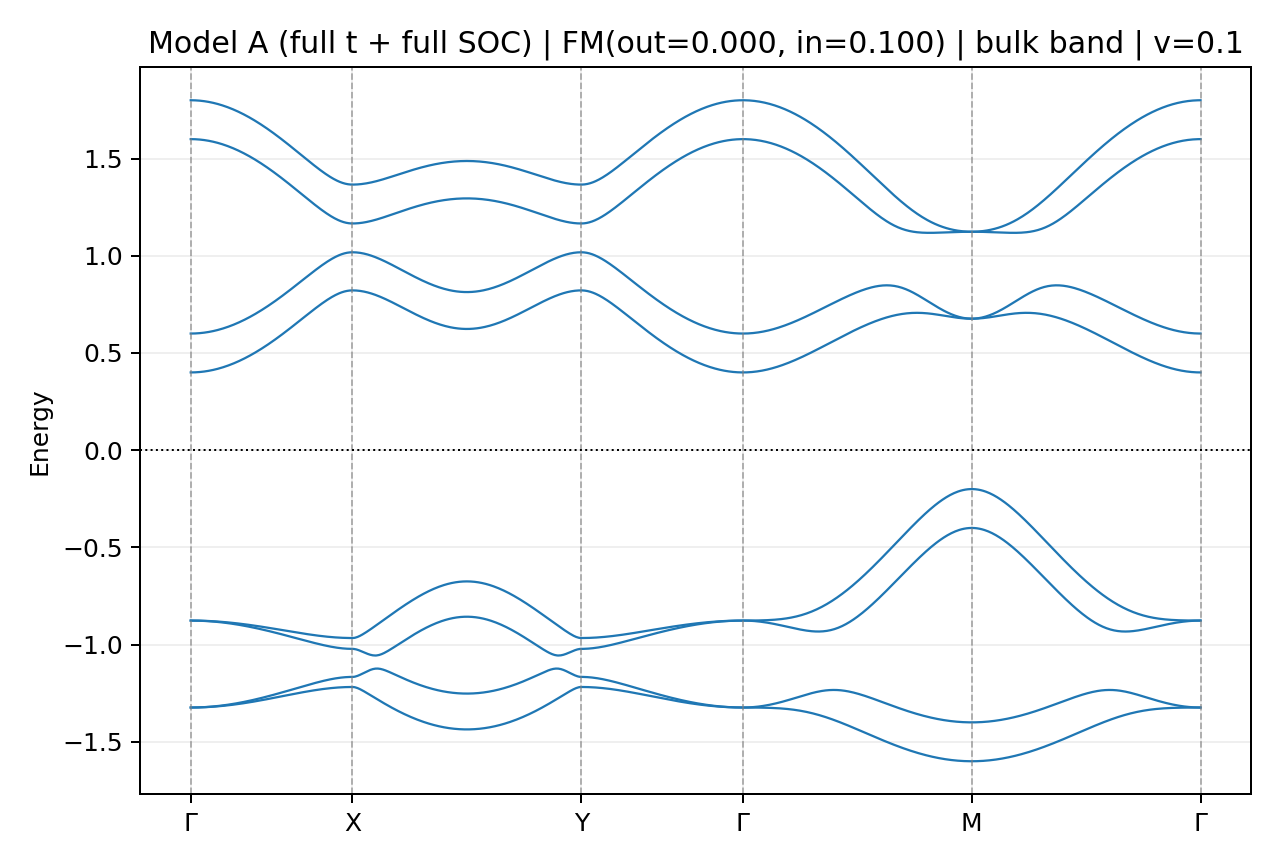
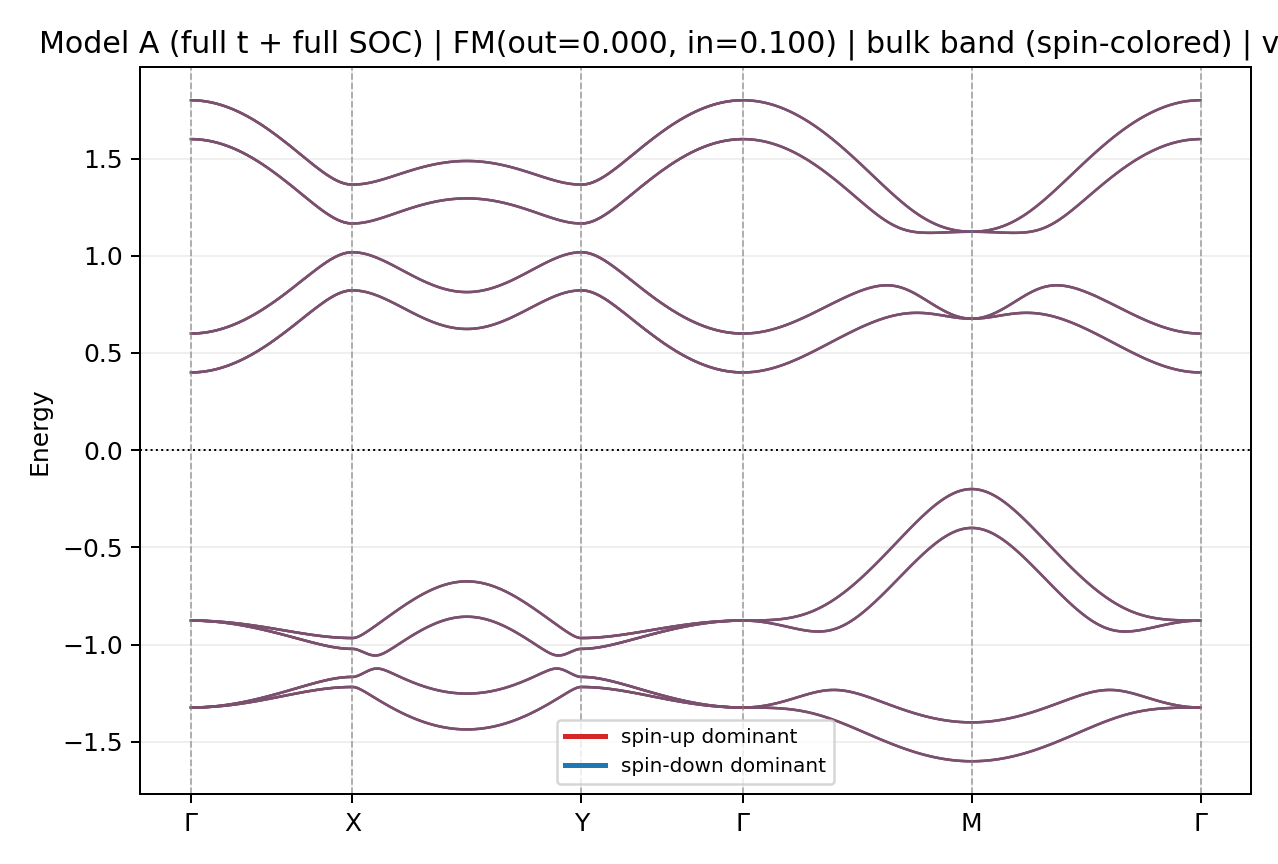
Color bulk bands by spin-up and spin-down weights

diff --git a/scripts/topology_diagnosis/run_three_model_visual_outputs.py b/scripts/topology_diagnosis/run_three_model_visual_outputs.py
@@ -9,6 +9,7 @@ from pathlib import Path
 import sys
 
 import matplotlib.pyplot as plt
+from matplotlib.lines import Line2D
 import numpy as np
 from scipy.sparse import csr_matrix
 from scipy.sparse.linalg import eigsh
@@ -278,23 +279,86 @@ def select_near_zero_states(
     return idxs, float(raw_window), float(cap_window), float(eff_window), mode
 
 
+def spin_up_weight(vec: np.ndarray) -> float:
+    prob = np.abs(vec) ** 2
+    total = float(np.sum(prob))
+    if total < 1e-15:
+        return 0.5
+    return float(np.sum(prob[0::2]) / total)
+
+
+def blend_spin_rgb(w_up: float) -> tuple[float, float, float]:
+    w_up = float(min(max(w_up, 0.0), 1.0))
+    w_dn = 1.0 - w_up
+    up_rgb = (0.839, 0.153, 0.157)  # red
+    dn_rgb = (0.122, 0.467, 0.706)  # blue
+    return tuple(w_up * up_rgb[i] + w_dn * dn_rgb[i] for i in range(3))
+
+
+def track_bulk_bands_spin(
+    evals_list: list[np.ndarray],
+    evecs_list: list[np.ndarray],
+) -> tuple[np.ndarray, np.ndarray]:
+    n_k = len(evals_list)
+    n_b = int(evals_list[0].size)
+    tracked_e = np.zeros((n_k, n_b), dtype=float)
+    tracked_wup = np.zeros((n_k, n_b), dtype=float)
+
+    order = list(range(n_b))
+    tracked_e[0] = evals_list[0][order]
+    for b, j in enumerate(order):
+        tracked_wup[0, b] = spin_up_weight(evecs_list[0][:, j])
+    prev_vecs = evecs_list[0][:, order]
+
+    for ik in range(1, n_k):
+        overlaps = np.abs(prev_vecs.conj().T @ evecs_list[ik])
+        used: set[int] = set()
+        order = []
+        for b in range(n_b):
+            j_best = max((j for j in range(n_b) if j not in used), key=lambda j: overlaps[b, j])
+            order.append(j_best)
+            used.add(j_best)
+        for b, j in enumerate(order):
+            tracked_e[ik, b] = float(evals_list[ik][j])
+            tracked_wup[ik, b] = spin_up_weight(evecs_list[ik][:, j])
+        prev_vecs = evecs_list[ik][:, order]
+    return tracked_e, tracked_wup
+
+
 def plot_bulk_band(out_png: Path, v: float, title: str, h8_func, nseg: int) -> None:
     kpts, xcoords, ticks, labels = build_high_symmetry_path(nseg=nseg)
-    bands = []
+    evals_list: list[np.ndarray] = []
+    evecs_list: list[np.ndarray] = []
     for k in kpts:
-        bands.append(np.real(np.linalg.eigvalsh(h8_func(float(k[0]), float(k[1]), v))))
-    bands = np.array(bands, dtype=float)
+        evals, evecs = np.linalg.eigh(h8_func(float(k[0]), float(k[1]), v))
+        evals_list.append(np.real(evals))
+        evecs_list.append(evecs)
+    bands, spin_up = track_bulk_bands_spin(evals_list=evals_list, evecs_list=evecs_list)
+
     fig, ax = plt.subplots(figsize=(7.1, 4.8))
-    for i in range(bands.shape[1]):
-        ax.plot(xcoords, bands[:, i], color="tab:blue", linewidth=0.9)
+    n_k, n_b = bands.shape
+    for b in range(n_b):
+        for ik in range(n_k - 1):
+            w_up = 0.5 * (spin_up[ik, b] + spin_up[ik + 1, b])
+            ax.plot(
+                xcoords[ik : ik + 2],
+                bands[ik : ik + 2, b],
+                color=blend_spin_rgb(w_up),
+                linewidth=1.0,
+            )
     for x in ticks:
         ax.axvline(x, color="gray", linestyle="--", linewidth=0.7, alpha=0.65)
     ax.axhline(0.0, color="black", linestyle=":", linewidth=0.8)
     ax.set_xticks(ticks)
     ax.set_xticklabels(labels)
     ax.set_ylabel("Energy")
-    ax.set_title(f"{title} | bulk band | v={v:.1f}")
+    ax.set_title(f"{title} | bulk band (spin-colored) | v={v:.1f}")
     ax.grid(alpha=0.2)
+    legend_handles = [
+        Line2D([0], [0], color=blend_spin_rgb(1.0), lw=2.0, label="spin-up dominant"),
+        Line2D([0], [0], color=blend_spin_rgb(0.0), lw=2.0, label="spin-down dominant"),
+    ]
+    ax.legend(handles=legend_handles, loc="best", fontsize=8)
     fig.tight_layout()
     fig.savefig(out_png, dpi=180)
     plt.close(fig)
@@ -564,7 +628,7 @@ def main() -> None:
                 f"params: t={args.t}, w={args.w}, lm={args.lm}",
                 f"ferromagnetism: fm_out={args.fm_out}, fm_in={args.fm_in}",
                 "Each model directory contains:",
-                "  01_bulk_band/",
+                "  01_bulk_band/ (red=spin-up dominant, blue=spin-down dominant)",
                 "  02_ribbon/",
                 "  03_obc_marked/ (red points = states used in WF summation)",
                 "  04_wf_sum/",
